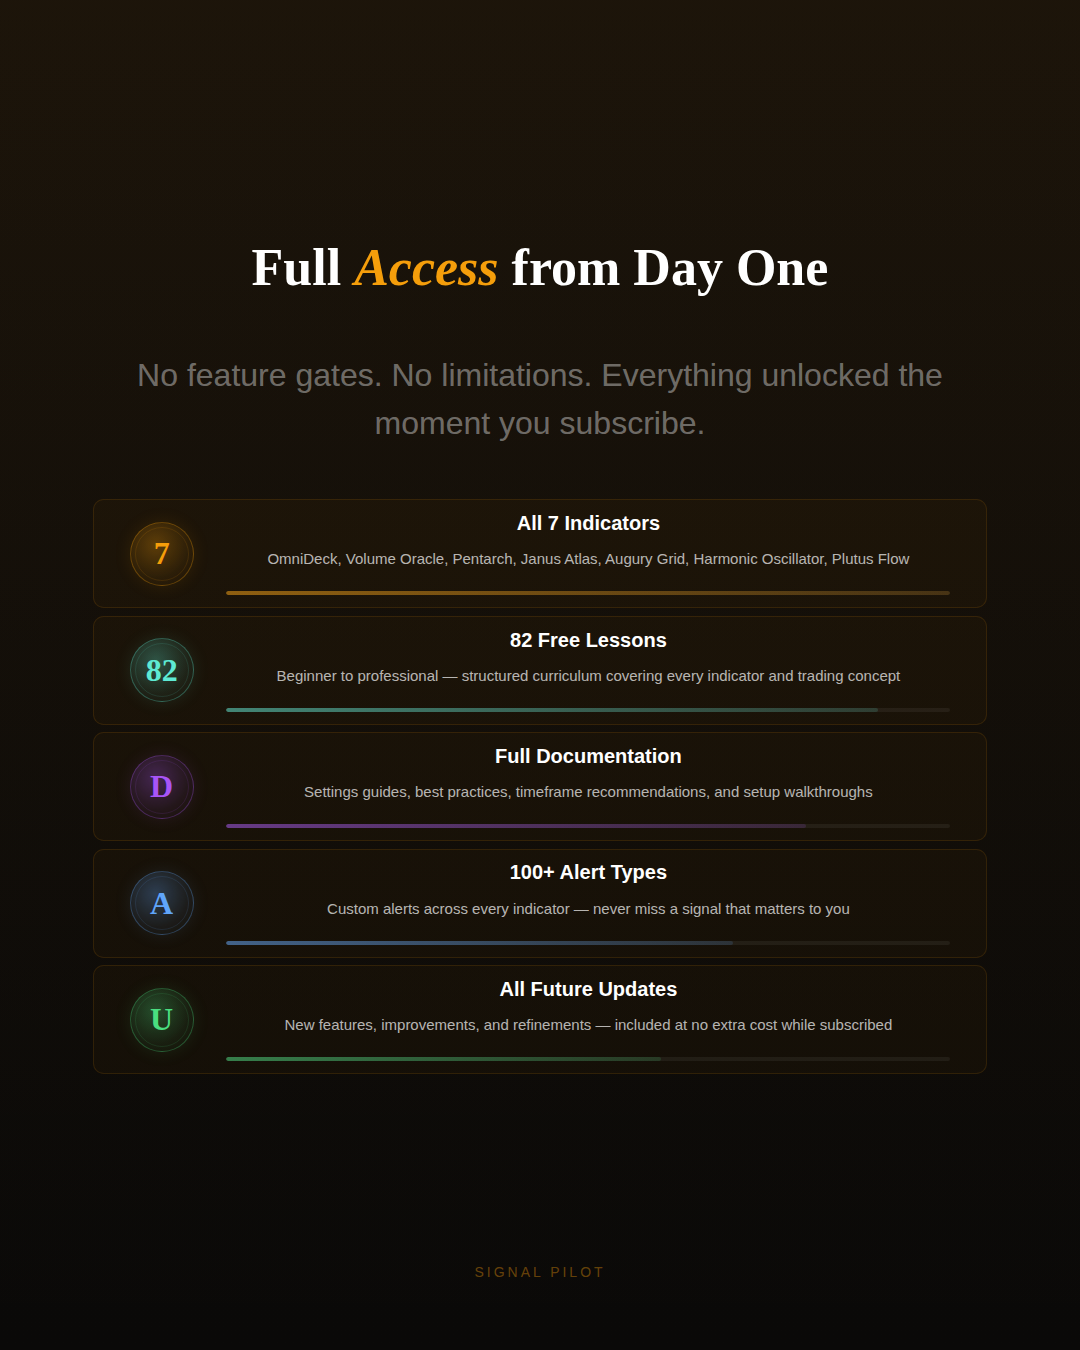
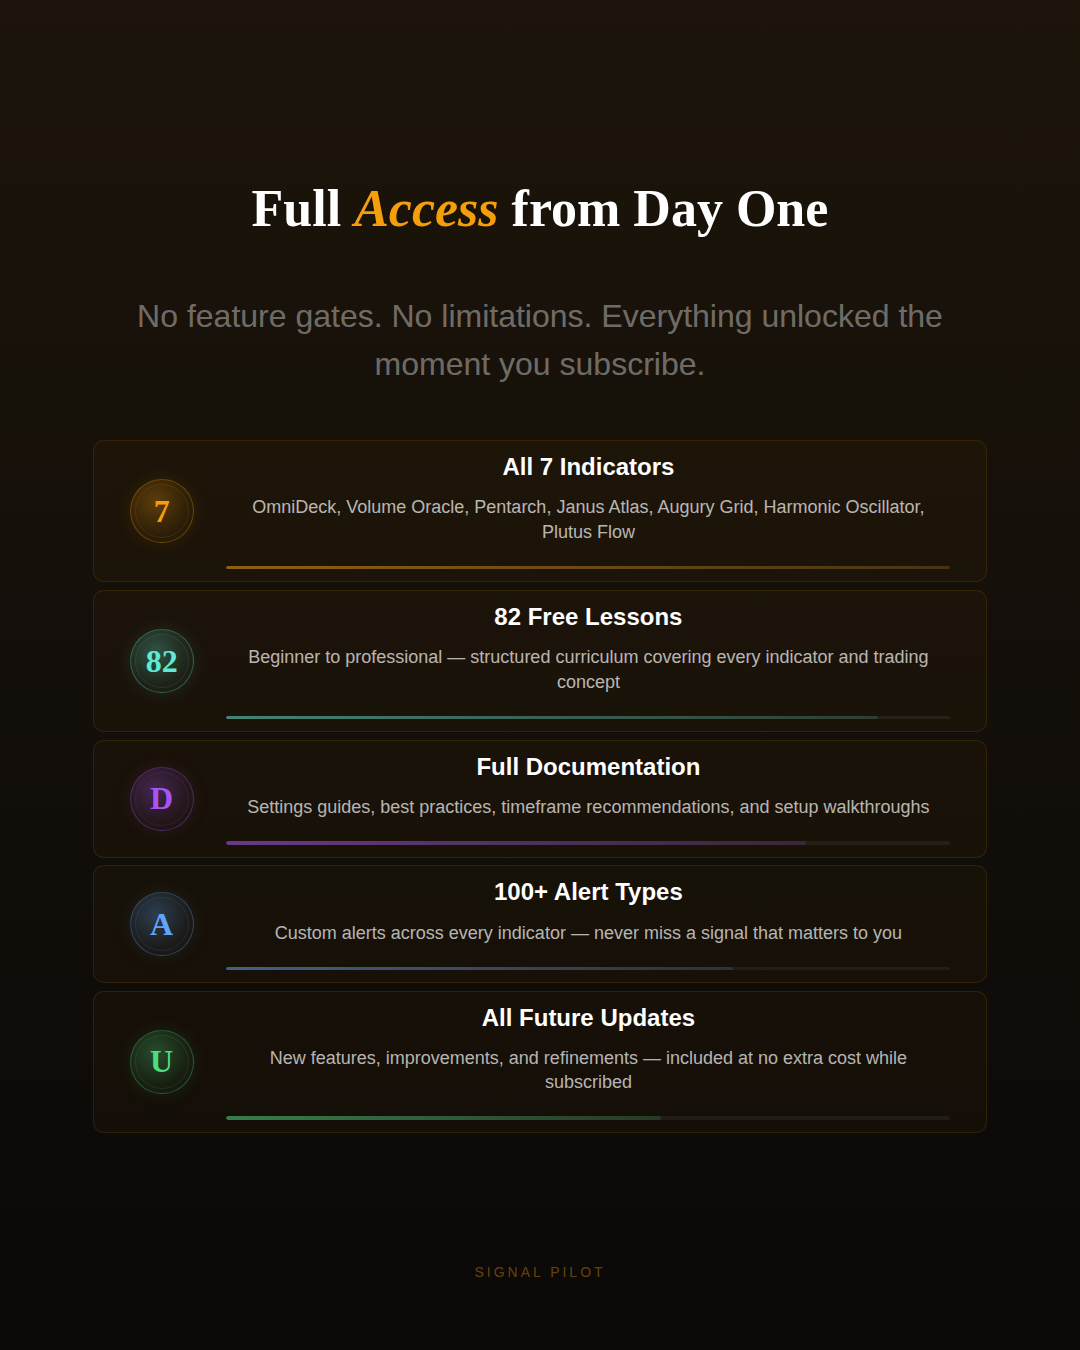
Bump post-051 text sizes further for Instagram mobile readability
Access card names, descriptions, promise card titles and body text
all increased to be clearly legible on phone screens.

https://claude.ai/code/session_01JdAyDtW3X2RhJAyPJGnP6R

Changed region(s): [[0.1222, 0.1244, 0.8861, 0.84], [0.1222, 0.3422, 0.1833, 0.4356], [0.6722, 0.28, 0.7028, 0.3111]]

diff --git a/INSTAGRAM_CONTENT_HUB/social/post-051/carousel.html b/INSTAGRAM_CONTENT_HUB/social/post-051/carousel.html
@@ -269,14 +269,14 @@
     .access-info { flex: 1; }
     .access-name {
       font-family: var(--font-sans);
-      font-size: clamp(12px, 2cqw, 20px);
+      font-size: clamp(14px, 2.4cqw, 24px);
       font-weight: 600;
       color: var(--text-primary);
       margin-bottom: 2%;
     }
     .access-desc {
       font-family: var(--font-sans);
-      font-size: clamp(9px, 1.5cqw, 15px);
+      font-size: clamp(11px, 1.8cqw, 18px);
       color: var(--text-secondary);
       line-height: 1.35;
     }
@@ -359,7 +359,7 @@
     .pd-blue { background: var(--accent-blue); box-shadow: 0 0 8px rgba(96,165,250,0.3); }
     .promise-card-title {
       font-family: var(--font-sans);
-      font-size: clamp(11px, 1.8cqw, 18px);
+      font-size: clamp(13px, 2.2cqw, 22px);
       font-weight: 600;
       color: var(--text-primary);
       margin-bottom: 3%;
@@ -367,7 +367,7 @@
     }
     .promise-card-text {
       font-family: var(--font-sans);
-      font-size: clamp(9px, 1.5cqw, 15px);
+      font-size: clamp(11px, 1.8cqw, 18px);
       color: var(--text-secondary);
       line-height: 1.4;
     }
